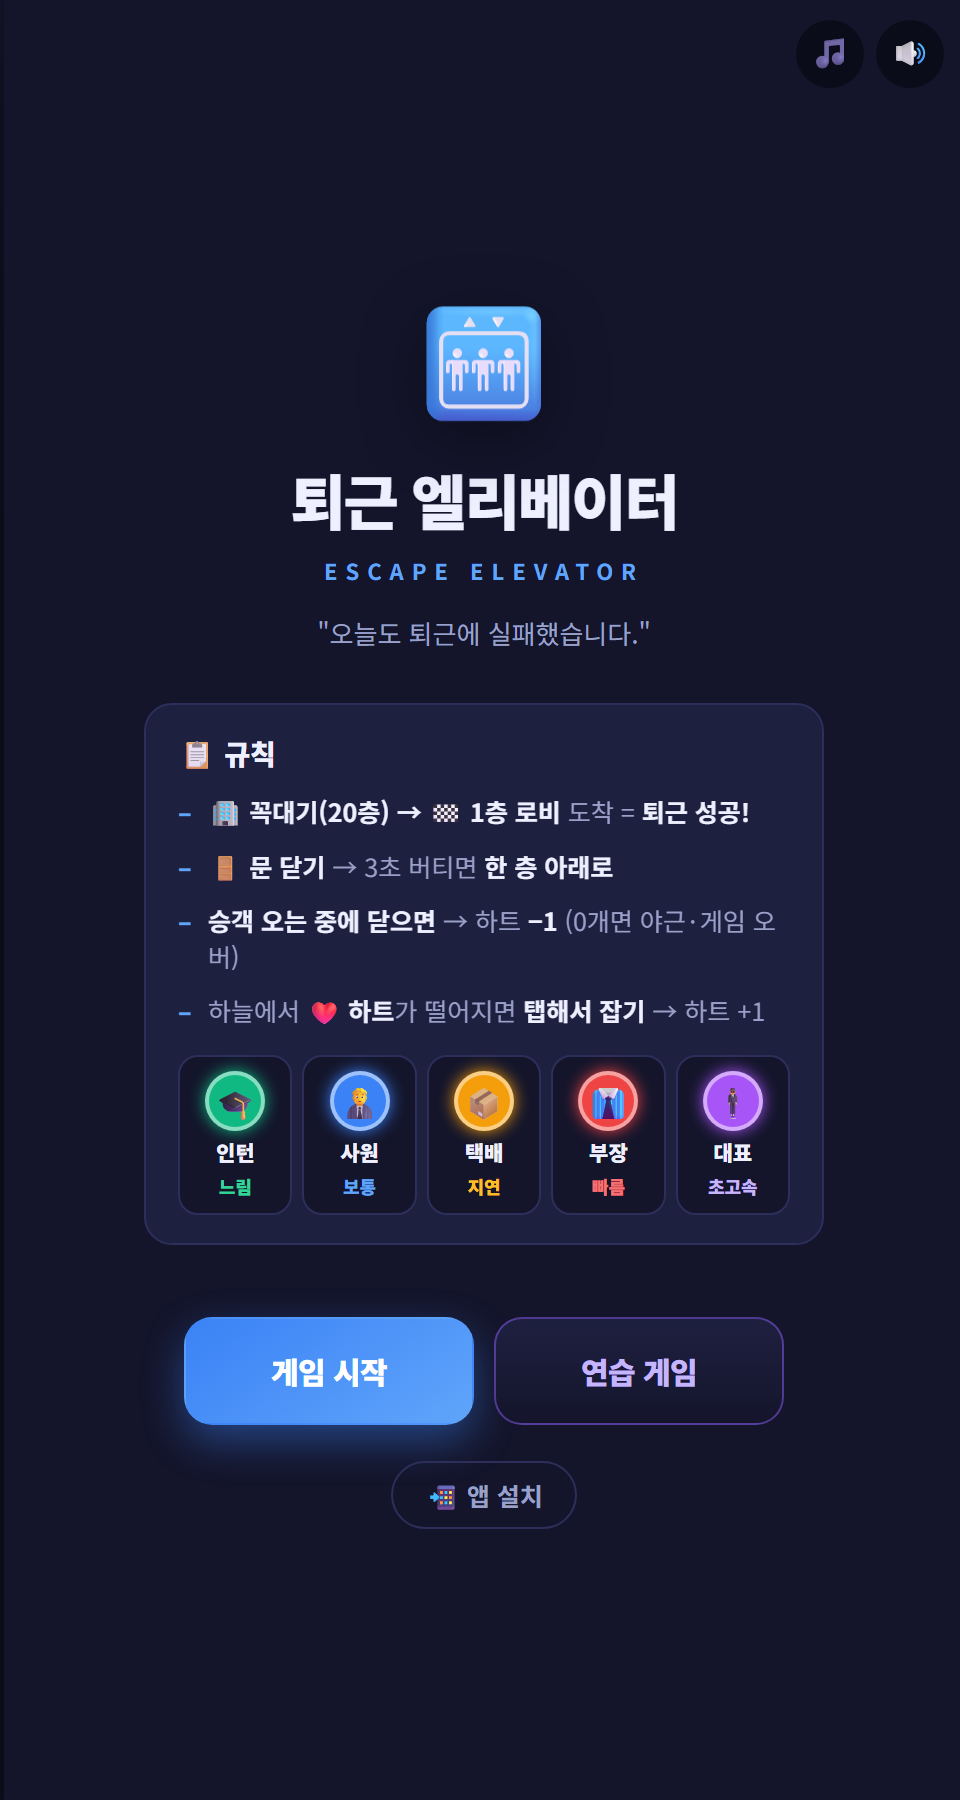
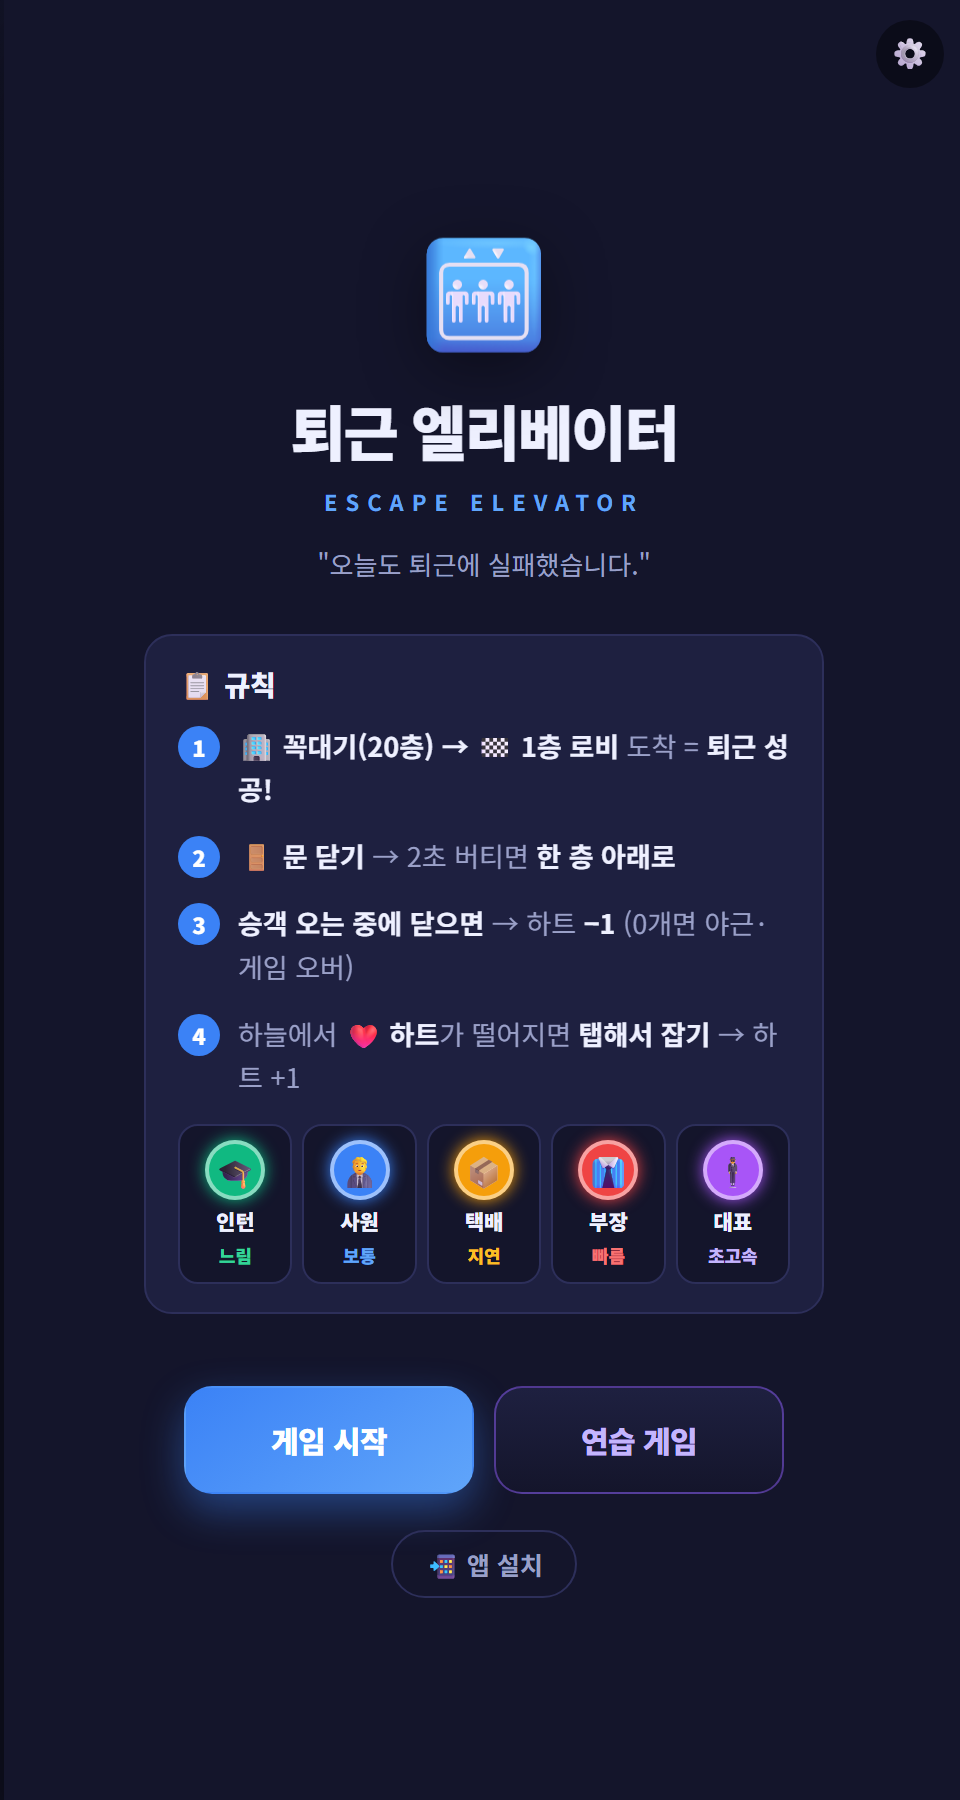
docs: README/docs 현행화(제한시간·⚙설정·문닫기 2초) + 스크린샷 재캡처(새 HUD)

diff --git a/docs/기능명세서.html b/docs/기능명세서.html
@@ -67,7 +67,7 @@ code,.mono{font-family:'IBM Plex Mono',monospace}
 </tr>
 <tr>
 <td>F-003</td>
-<td>출발 판정 (3초) → 한 층 하강</td>
+<td>출발 판정 (2초) → 한 층 하강</td>
 <td></td>
 </tr>
 <tr>
@@ -130,6 +130,11 @@ code,.mono{font-family:'IBM Plex Mono',monospace}
 <td>연습 모드 + 위험 미리보기</td>
 <td></td>
 </tr>
+<tr>
+<td>F-016</td>
+<td>제한 시간</td>
+<td>단계별 2:00~3:30</td>
+</tr>
 </tbody>
 </table>
 <hr />
@@ -142,11 +147,11 @@ code,.mono{font-family:'IBM Plex Mono',monospace}
 <h3>F-002 문 닫기</h3>
 <ul>
 <li>입력: 문닫기 버튼(<code>pointerdown</code>) / <code>Space</code> · <code>↓</code> · <code>Enter</code>.</li>
-<li>조건: 문 열림 + 카운트다운 종료 + 지연/일시정지 아님 → 문 닫힘 시작(3초 타이머).</li>
+<li>조건: 문 열림 + 카운트다운 종료 + 지연/일시정지 아님 → 문 닫힘 시작(2초 타이머).</li>
 </ul>
 <h3>F-003 출발 판정 → 하강</h3>
 <ul>
-<li>3초 동안 승객 도착 없으면 성공 → <strong>현재 층 −1(하강)</strong>, 점수·콤보, 출발 연출.</li>
+<li>2초 동안 승객 도착 없으면 성공 → <strong>현재 층 −1(하강)</strong>, 점수·콤보, 출발 연출.</li>
 <li>1층 도달 시 F-010(승리).</li>
 </ul>
 <h3>F-004 승객 생성</h3>
@@ -198,11 +203,16 @@ code,.mono{font-family:'IBM Plex Mono',monospace}
 </ul>
 <h3>F-014 사운드</h3>
 <ul>
-<li>효과음(🔊)/배경음(🎵) <strong>각각 토글</strong>, 설정 LocalStorage 저장. <code>sounds/</code> mp3 매핑.</li>
+<li>우상단 <strong>⚙ 설정</strong> → 배경음(🎵)/효과음(🔊) 각각 ON·OFF, 설정 LocalStorage 저장. <code>sounds/</code> mp3 매핑.</li>
 </ul>
 <h3>F-015 연습 모드 + 위험 미리보기</h3>
 <ul>
-<li>6층·하트 5·느린 설정. <strong>지금 닫으면 3초 안에 도착할 승객을 빨간 펄스 + <code>!</code></strong> 로 표시.</li>
+<li>6층·하트 5·느린 설정. <strong>지금 닫으면 2초 안에 도착할 승객을 빨간 펄스 + <code>!</code></strong> 로 표시.</li>
+</ul>
+<h3>F-016 제한 시간</h3>
+<ul>
+<li>단계별 제한 시간(1단계 120s ~ 5단계 210s, 연습 무제한). 매 프레임 감소, <strong>0이 되면 시간 초과 → 게임 오버</strong>(결과 "시간 초과").</li>
+<li>HUD에 <strong>시간(m:ss)</strong> 표시, 15초 이하 빨강·깜빡임. 일시정지·시작 카운트다운 중에는 멈춤.</li>
 </ul>
 <hr />
 <h2>승객 명세</h2>
@@ -270,7 +280,7 @@ code,.mono{font-family:'IBM Plex Mono',monospace}
 </tr>
 <tr>
 <td>Door Closing</td>
-<td>3초 무방해</td>
+<td>2초 무방해</td>
 <td>Playing(층 −1)</td>
 </tr>
 <tr>
@@ -310,7 +320,7 @@ code,.mono{font-family:'IBM Plex Mono',monospace}
 </tr>
 <tr>
 <td>출발 판정 시간</td>
-<td>3초</td>
+<td>2초</td>
 </tr>
 <tr>
 <td>출발 성공 점수</td>
@@ -323,6 +333,14 @@ code,.mono{font-family:'IBM Plex Mono',monospace}
 <tr>
 <td>택배 지연</td>
 <td>1.5초</td>
+</tr>
+<tr>
+<td>제한 시간</td>
+<td>1단계 2:00 ~ 5단계 3:30 (연습 무제한)</td>
+</tr>
+<tr>
+<td>보너스 하트 낙하</td>
+<td>약 20초</td>
 </tr>
 </tbody>
 </table>

diff --git a/docs/user-flow.html b/docs/user-flow.html
@@ -69,13 +69,13 @@ th{background:var(--surface);font-weight:700;white-space:nowrap}
 <!-- ===== 게임 흐름 ===== -->
 <div id="t1" class="tab-content active">
   <p class="intro">빌딩 꼭대기에서 시작해 빈 틈에 문을 닫아 한 층씩 내려가고, 1층 로비에 도착하면 퇴근 성공. 하트 3개를 다 잃으면 야근(게임 오버).</p>
-  <div class="principle-box"><b>핵심 루프</b><br>문 닫기 → 3초 무방해 시 <b>한 층 하강</b>(점수+100) / 닫는 중 승객 도착 시 <b>실패(하트 −1)</b> → 반복 → 1층 도착(승리) 또는 하트 0(패배).</div>
+  <div class="principle-box"><b>핵심 루프</b><br>문 닫기 → 2초 무방해 시 <b>한 층 하강</b>(점수+100) / 닫는 중 승객 도착 시 <b>실패(하트 −1)</b> → 반복 → 1층 도착(승리) 또는 하트 0(패배).</div>
   <div class="flow-title">메인 루프</div>
   <div class="step-flow">
     <div class="step start">단계 선택 → 3·2·1·START 카운트다운</div>
     <div class="step">엘리베이터 대기(문 열림) · 승객 우측에서 접근</div>
     <div class="step">문 닫기 (버튼 / Space · ↓ · Enter)</div>
-    <div class="step">3초 카운트 — 승객 도착 여부 판정</div>
+    <div class="step">2초 카운트 — 승객 도착 여부 판정</div>
   </div>
   <div style="margin:10px 0">
     <div class="branch"><b>성공</b> → 한 층 ▼ 하강 · 점수 +100 · 콤보 · 상승(하강) 연출</div>
@@ -96,7 +96,7 @@ th{background:var(--surface);font-weight:700;white-space:nowrap}
   <div class="step-flow">
     <div class="step start">메인 → 게임 시작 → 단계 선택(1~5) 또는 연습</div>
     <div class="step">카운트다운(3·2·1·START) 동안 대기</div>
-    <div class="step">빈 틈에 문 닫기 → 3초 유지</div>
+    <div class="step">빈 틈에 문 닫기 → 2초 유지</div>
     <div class="step good">첫 출발 성공 → 한 층 하강</div>
   </div>
 
@@ -157,10 +157,11 @@ th{background:var(--surface);font-weight:700;white-space:nowrap}
     <tr><th>현재</th><th>이벤트</th><th>다음</th></tr>
     <tr><td>메뉴</td><td>단계/연습 선택</td><td>게임(카운트다운)</td></tr>
     <tr><td>문 열림</td><td>문 닫기</td><td>닫는 중</td></tr>
-    <tr><td>닫는 중</td><td>3초 무방해</td><td style="color:var(--good)">한 층 하강</td></tr>
+    <tr><td>닫는 중</td><td>2초 무방해</td><td style="color:var(--good)">한 층 하강</td></tr>
     <tr><td>닫는 중</td><td>승객 충돌</td><td style="color:var(--bad)">문 열림 · 하트 −1</td></tr>
     <tr><td>플레이</td><td>1층 도착</td><td style="color:var(--good)">승리</td></tr>
     <tr><td>플레이</td><td>하트 0</td><td style="color:var(--bad)">패배(야근)</td></tr>
+    <tr><td>플레이</td><td>제한 시간 0</td><td style="color:var(--bad)">패배(시간 초과)</td></tr>
   </table>
 
   <div class="flow-title">단계</div>
@@ -191,9 +192,10 @@ th{background:var(--surface);font-weight:700;white-space:nowrap}
     <tr><td>시작 하트</td><td>3개 (4·5단계 4·5개 / 연습 5개)</td></tr>
     <tr><td>보너스 하트</td><td>단계 번호만큼 하늘에서 낙하 → 탭해서 잡기(최대치까지, 못 잡으면 소멸)</td></tr>
     <tr><td>시작 카운트다운</td><td>3·2·1·START</td></tr>
-    <tr><td>출발 판정 시간</td><td>3초</td></tr>
+    <tr><td>출발 판정 시간</td><td>2초</td></tr>
     <tr><td>출발 성공 점수</td><td>+100 (콤보 +30)</td></tr>
     <tr><td>택배 지연</td><td>1.5초</td></tr>
+    <tr><td>제한 시간</td><td>1단계 2:00 ~ 5단계 3:30 (연습 무제한)</td></tr>
   </table>
 </div>
 

diff --git a/docs/planning.html b/docs/planning.html
@@ -96,7 +96,7 @@ code,.mono{font-family:'IBM Plex Mono',monospace}
 ↓
 문 닫기 (버튼/Space/↓/Enter)
 ↓
-3초 무방해 유지?
+2초 무방해 유지?
   ├─ 성공 → 한 층 하강 · 점수 +100 · (콤보)
   └─ 실패(승객 충돌) → 문 재개방 · 하트 −1
 ↓
@@ -167,6 +167,7 @@ code,.mono{font-family:'IBM Plex Mono',monospace}
 </tr>
 </tbody>
 </table>
+<p><strong>제한 시간</strong>: 1단계 2:00 · 2단계 2:20 · 3단계 2:40 · 4단계 3:00 · 5단계 3:30 (연습 무제한). 시간이 0이 되면 <strong>시간 초과 → 게임 오버</strong>. 막판 15초는 빨강·깜빡임 경고.</p>
 <hr />
 <h2>6. 승객</h2>
 <table>
@@ -296,7 +297,7 @@ code,.mono{font-family:'IBM Plex Mono',monospace}
 </ul>
 <h2>13. 사운드</h2>
 <ul>
-<li><code>sounds/</code> mp3 매핑(<code>js/audio.js</code>). <strong>효과음 🔊 / 배경음 🎵 각각 토글</strong>(설정 저장).</li>
+<li><code>sounds/</code> mp3 매핑(<code>js/audio.js</code>). 우상단 <strong>⚙ 설정</strong> → 배경음/효과음 ON·OFF(설정 저장).</li>
 <li>이벤트: 시작 카운트다운 · 문 닫기 · 실패 · 하트 획득 · 클리어 · 게임오버 · 버튼.</li>
 </ul>
 </div>

diff --git a/README.md b/README.md
@@ -25,20 +25,21 @@
 - 🚪 **문 닫기**(버튼 / `Space`·`↓`·`Enter`) → **2초** 버티면 한 층 아래로.
 - 승객이 **오는 중에 닫으면 실패** → 하트 −1. ❤️ **하트 0개면 게임 오버**(야근).
 - 하늘에서 떨어지는 **❤️ 보너스 하트를 탭해서** 잡으면 +1 (단계마다 등장).
-- 시작 시 **3·2·1·START** 카운트다운 · 일시정지 ⏸/`Esc`/`P` · 시작 하트 3개(4·5단계 4·5개).
+- ⏱ 단계마다 **제한 시간**(2:00~3:30, 0이 되면 게임 오버 — 연습은 무제한).
+- 시작 시 **3·2·1·START** 카운트다운 · 일시정지 ⏸/`Esc`/`P` · 나가기 🏠 · 오디오 ⚙ · 시작 하트 3개(4·5단계 4·5개).
 
 ## 단계 (꼭대기 → 1층)
 
 모든 단계 **20층 통일**, 난이도(생성·이동 속도)로 차등. 어려운 단계일수록 보너스 하트를 더 주고, **4·5단계는 시작 하트도 4·5개**.
 
-| 단계 | 빌딩 | 난이도 | 보너스 하트 | 비고 |
-| --- | --- | --- | --- | --- |
-| 1단계 느긋한 오후 | 20층 | ★ | ❤️×1 | 드뭄·느림 |
-| 2단계 평범한 퇴근 | 20층 | ★★ | ❤️×2 | 표준 |
-| 3단계 러시아워 | 20층 | ★★★ | ❤️×3 | 자주·빠르게 |
-| 4단계 야근 지옥 | 20층 | ★★★★ | ❤️×4 | 쉴 틈 없음 |
-| 5단계 대표님 등장 | 20층 | ★★★★★ | ❤️×5 | **대표🕴️ 출현** |
-| 🎯 연습 게임 | 6층 | - | - | **위험 미리보기**(빨간 표시) 켜짐 |
+| 단계 | 빌딩 | 난이도 | 보너스 하트 | 제한 시간 | 비고 |
+| --- | --- | --- | --- | --- | --- |
+| 1단계 느긋한 오후 | 20층 | ★ | ❤️×1 | 2:00 | 드뭄·느림 |
+| 2단계 평범한 퇴근 | 20층 | ★★ | ❤️×2 | 2:20 | 표준 |
+| 3단계 러시아워 | 20층 | ★★★ | ❤️×3 | 2:40 | 자주·빠르게 |
+| 4단계 야근 지옥 | 20층 | ★★★★ | ❤️×4 | 3:00 | 쉴 틈 없음 |
+| 5단계 대표님 등장 | 20층 | ★★★★★ | ❤️×5 | 3:30 | **대표🕴️ 출현** |
+| 🎯 연습 게임 | 6층 | - | - | 무제한 | **위험 미리보기**(빨간 표시) 켜짐 |
 
 ## 승객
 
@@ -54,7 +55,7 @@
 
 ## 오디오
 
-`sounds/` 폴더의 mp3를 사용합니다 (없으면 무음). 효과음 🔊 / 배경음 🎵 **각각 토글**(우상단, 설정 저장).
+`sounds/` 폴더의 mp3를 사용합니다 (없으면 무음). 우상단 **⚙ 설정** 버튼 → **배경음/효과음 ON·OFF** (설정 저장).
 파일 매핑·교체는 [js/audio.js](js/audio.js)의 `FILES` 참고.
 
 ## PWA (설치 / 오프라인)